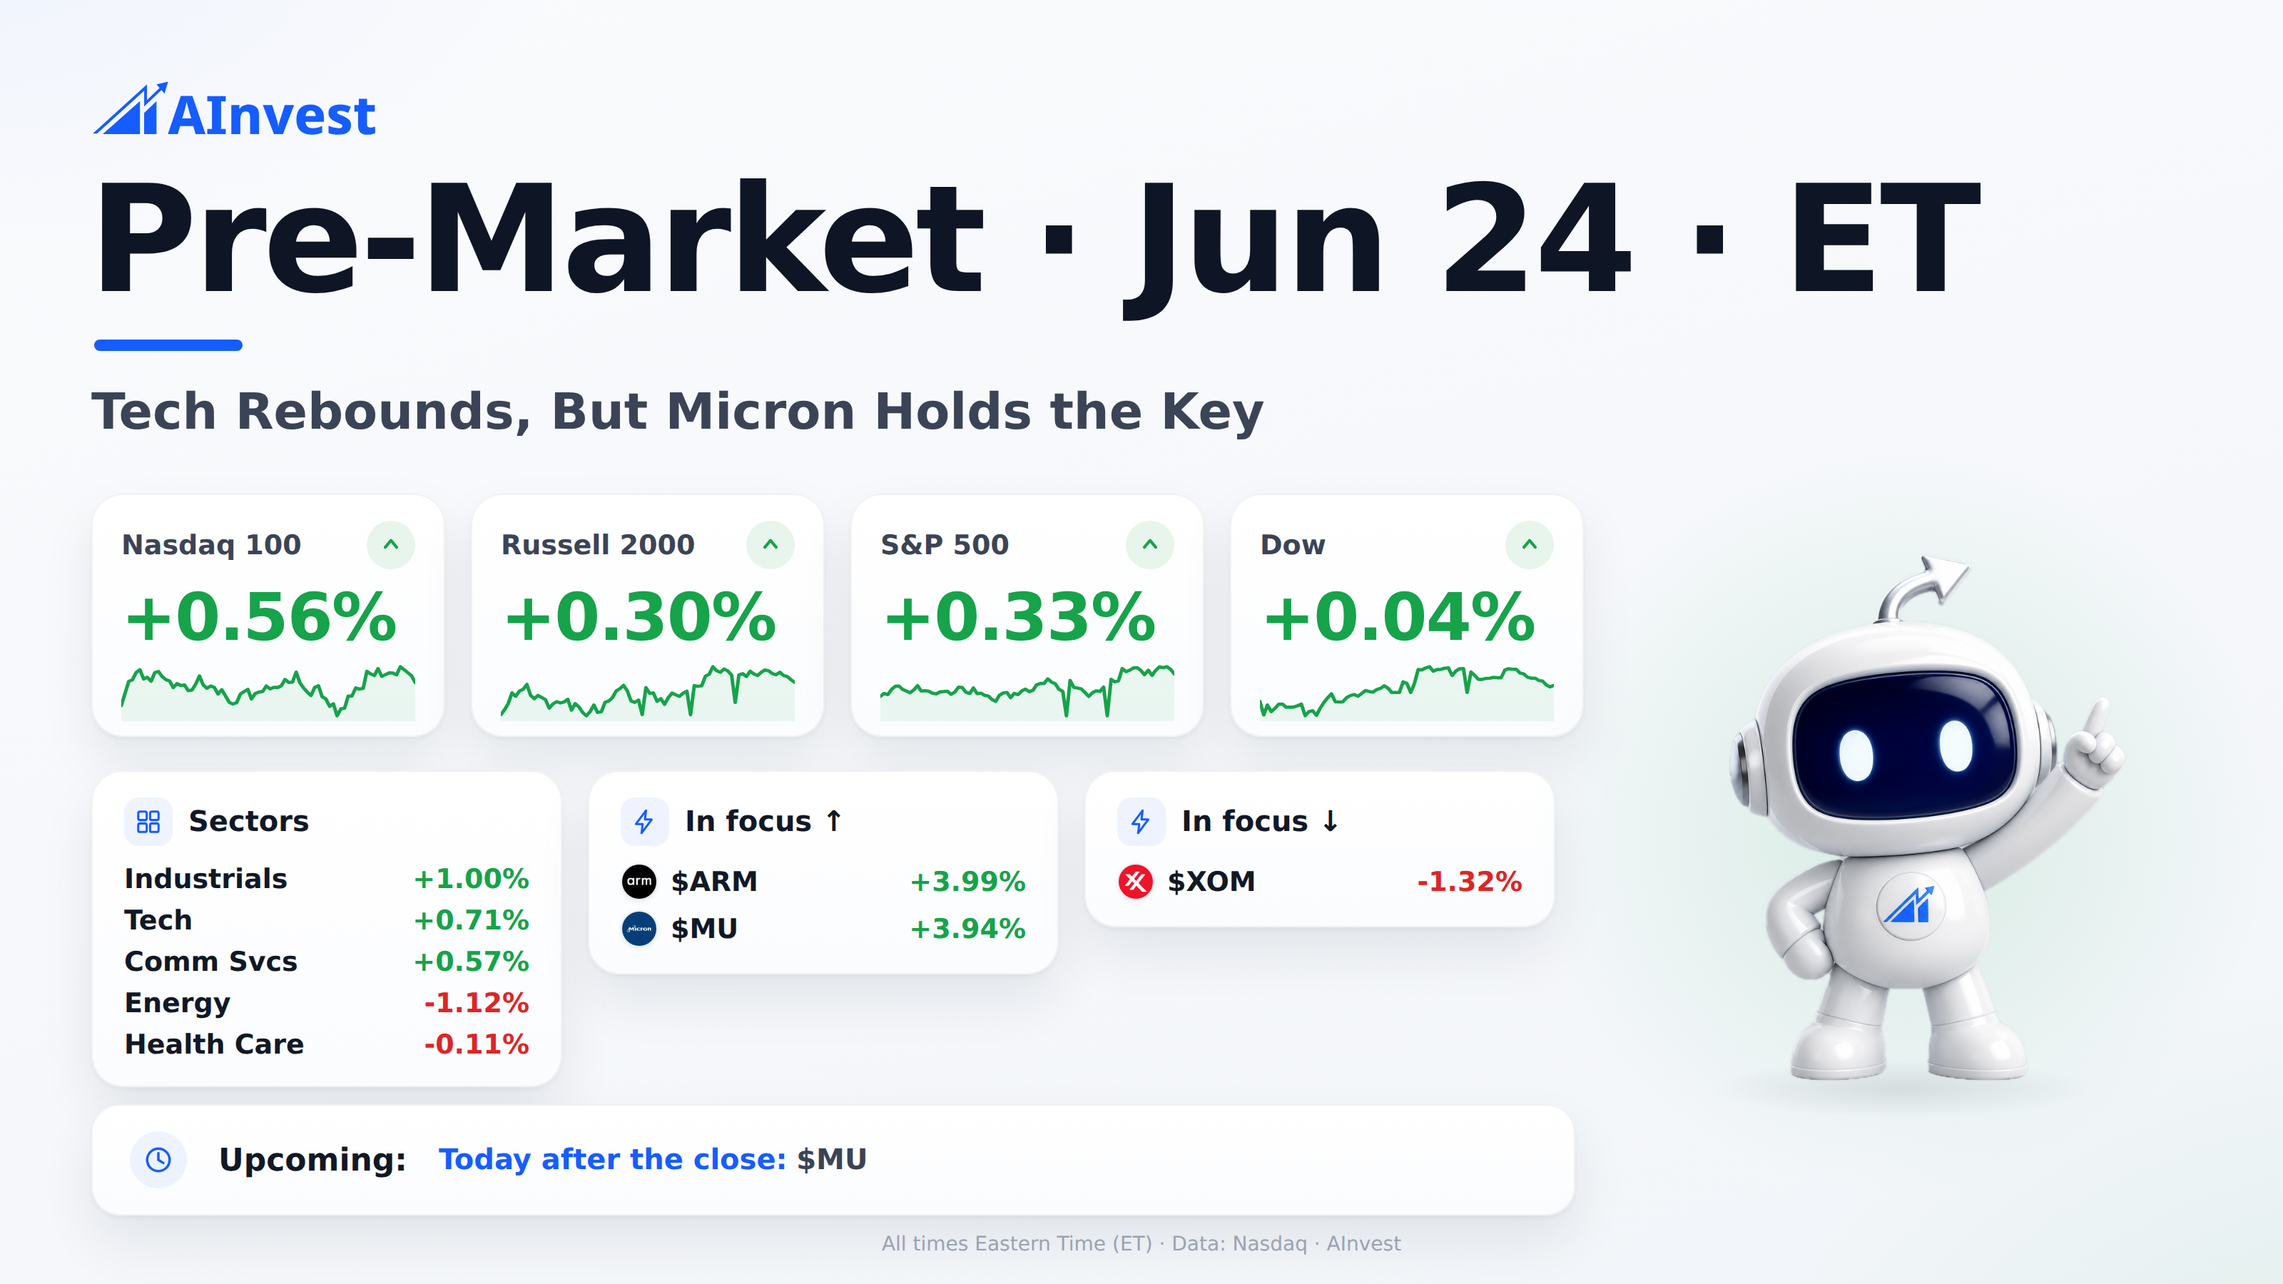
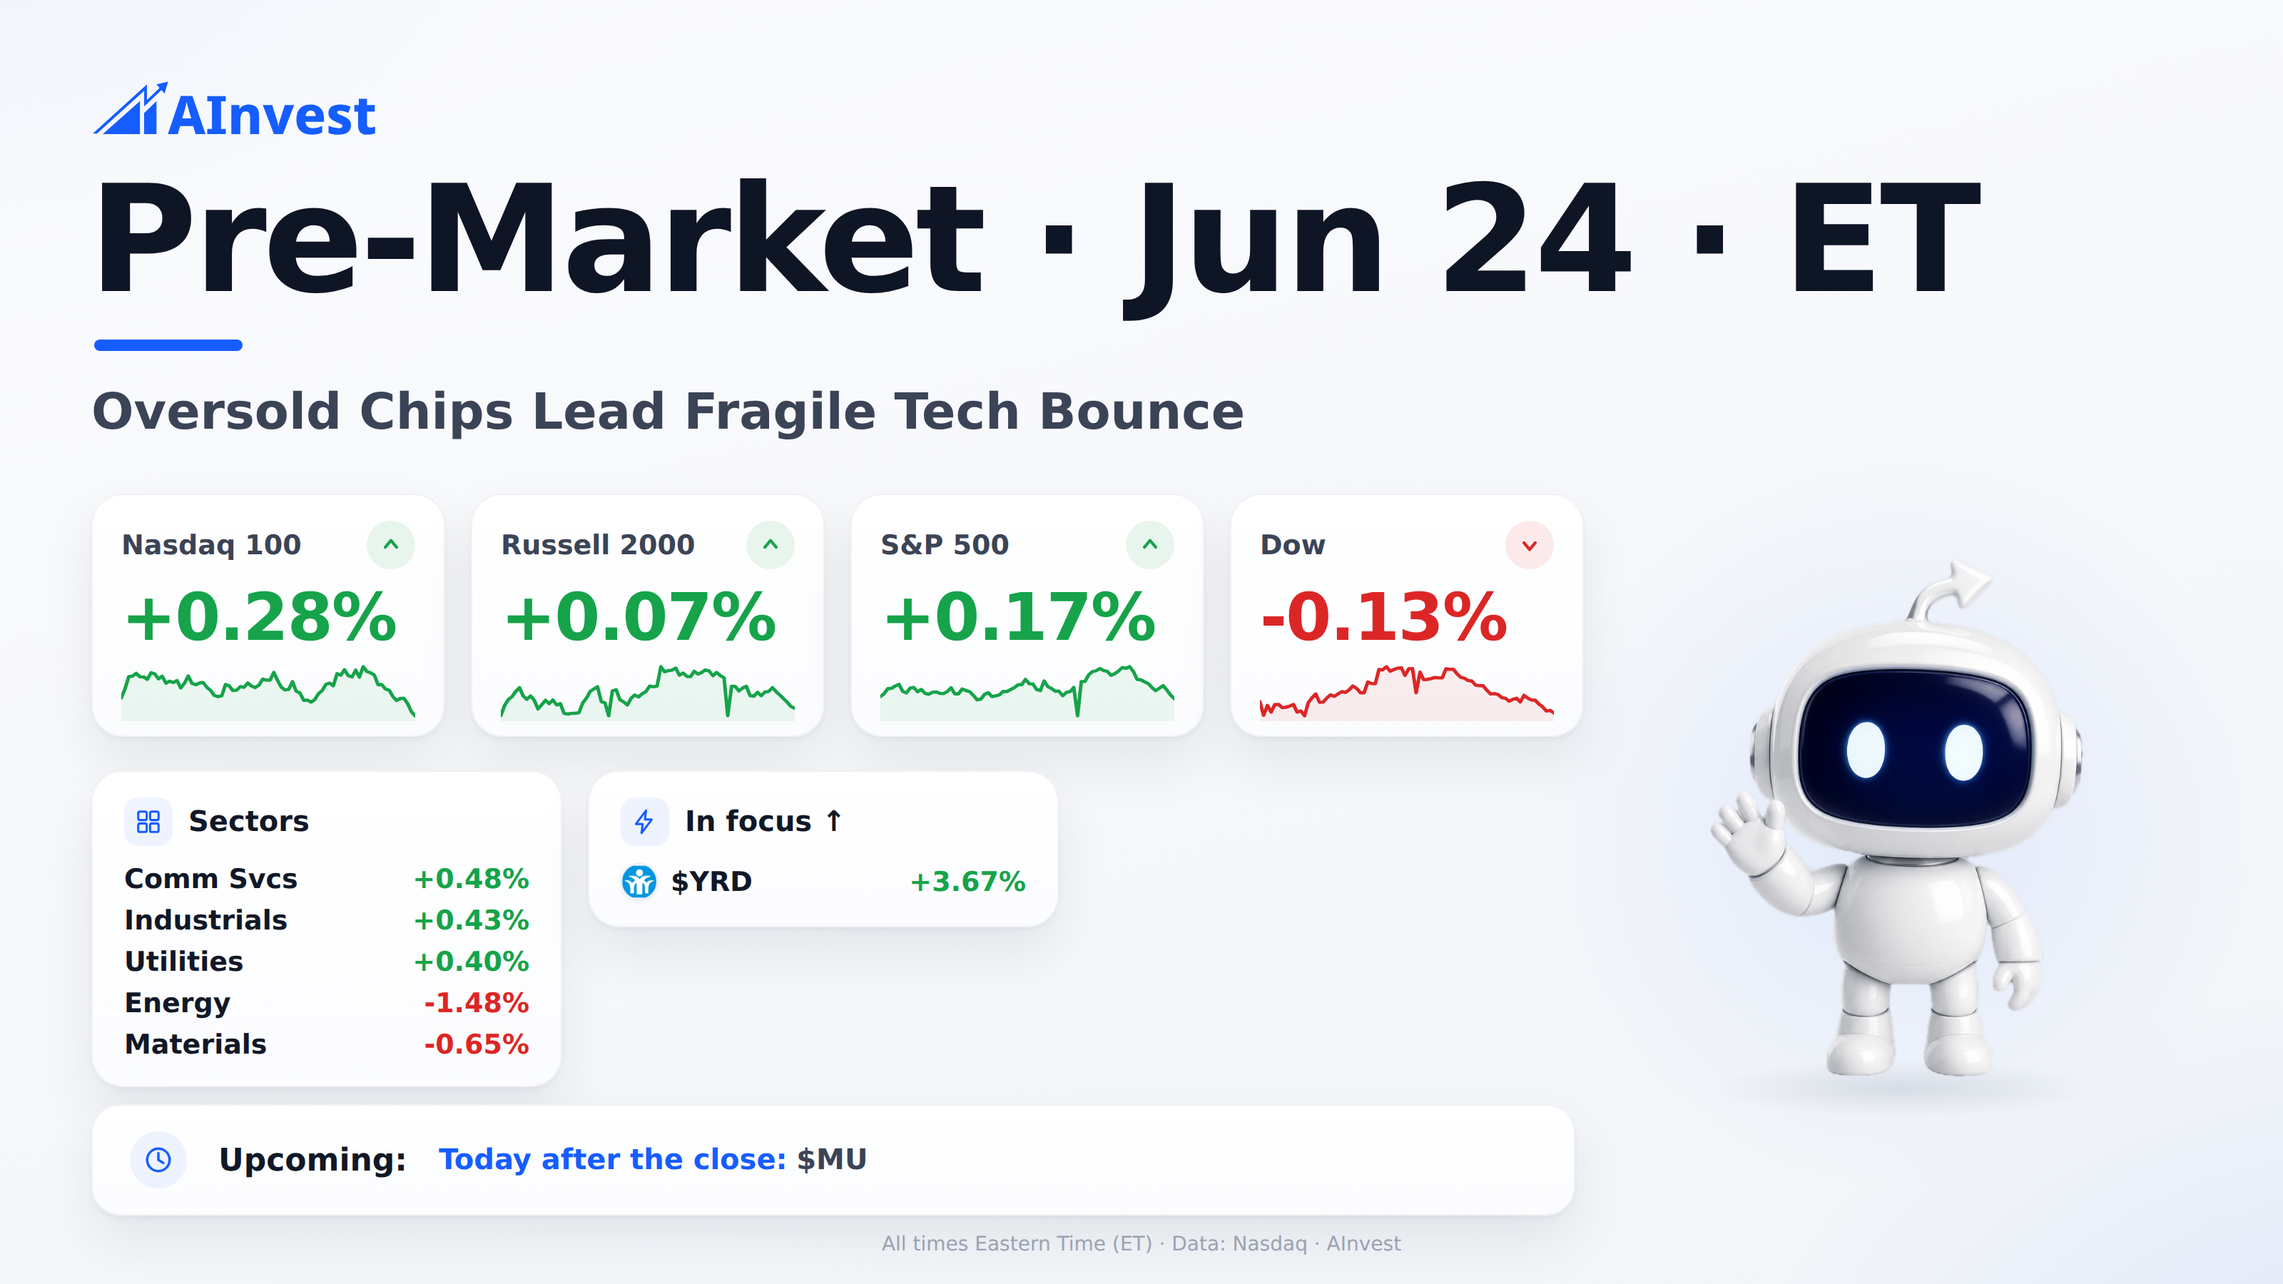
report: 盘前报告 + 卡片 2026-06-24(线上 Claude Opus 4.8)

diff --git a/data/reports/premarket_20260624.md b/data/reports/premarket_20260624.md
@@ -1,58 +1,63 @@
 # 盘前看点 · 06-24(开盘前 1h)
 
-_盘前实时数据 · 2026-06-24 08:37 ET · 我不是股神 · 非投资建议_
+_盘前实时数据 · 2026-06-24 09:18 ET · 我不是股神 · 非投资建议_
 
 ## 1. 一句话定调
 
-**今天盘前是“科技杀跌后的技术性反抽”，不是风险全面解除。** 标普500 盘前 **+0.36%**，纳指100 **+0.59%**，罗素2000 **+0.35%**，道指只 **+0.09%**。这说明资金先回补成长和科技，尤其是半导体；但上一交易日纳指100已经跌了 **-3.29%**，标普500跌 **-1.45%**，盘前这点反弹更像止血，不是新一轮无脑逼空。今天开盘大概率先往上试，但真正要看的是：反抽能不能从芯片扩散到更宽的风险资产。
+盘前不是全面反攻，是**科技超跌后的技术性喘气**：**纳指100 +0.27%**、**标普500 +0.16%**，但道指 **-0.15%**，罗素 **+0.12%**。上一交易日真正受伤的是科技——纳指100跌 **-3.29%**，标普跌 **-1.45%**；今天盘前芯片先弹，说明资金不是在买“经济复苏”，而是在试探上一交易日被砸最狠的 AI / 半导体有没有短线承接。领头的不是防御，也不是能源，是**MU、ARM、AVGO、NXPI**这条芯片链。
 
 ## 2. 盘前在发生什么
 
-第一条主线：**半导体在做“暴跌后的选择题”——是修复，还是逃命反弹。**  
-上一交易日这批AI链核心票大多被砸得很狠：**NVDA -4.13%**、**AVGO -3.06%**、**AMD -5.76%**、**ARM -10.14%**、**SMCI -6.03%**，这不是普通回调，是机构在降低拥挤度。盘前它们集体反弹：**ARM +3.86% 至 $380.54**、**AMD +1.04% 至 $525.25**、**SMCI +1.47% 至 $33.8085**、**NVDA +0.57% 至 $201.18**、**AVGO +0.39% 至 $381.65**。  
-这类走势的本质是：上一交易日杀估值，盘前先修复情绪。强的是 **ARM**，因为上一交易日跌最深，盘前反弹也最猛；弱的是 **NVDA/AVGO**，盘前只是小幅回血，说明大钱还没急着重新加仓龙头。机构今天会盯一个很简单的信号：**NVDA 能不能稳住 $200.04 上一交易日收盘附近**。站不住，AI反弹就是短线资金自救；站稳并放量，才有机会把纳指从“反抽”变成“修复”。
+第一条主线：**芯片不是崩盘后的修复，还是拥挤交易的再定价**。上一交易日，半导体被集体砸：**MU -13.18%**、**ARM -10.14%**、**CRDO -10.09%**、**NXPI -7.21%**、**MKSI -7.46%**，这是典型的高拥挤赛道先杀估值、再杀杠杆。盘前这些票反弹：**NXPI +7.82% 至 $322.30**、**MU +3.08% 至 $1,084.20**、**ARM +2.71% 至 $376.33**、**CRDO +2.67%**。结论很直接：这是**上一交易日大跌后的超卖反抽**，不是趋势已经恢复。
 
-第二条主线：**MU 是今天的情绪锚，财报前资金已经在抢方向。**  
-**MU 上一交易日 +3.97%，盘前再 +3.92%，报价 $1,092.98，上一交易日收盘 $1,093.50**。这不是超卖反抽，而是动能延续。新闻里也直接把焦点放在 Micron：市场一边说“memory trade boom”，一边又提醒“red-hot run hits a wall”。这就是典型财报日前的两边下注：多头押AI服务器、存储周期、定价弹性；空头押预期太满、兑现即卖。  
-今天 MU 的意义不只是它自己，而是它能不能证明AI支出还在继续传导到硬件供应链。若 **MU 财报前还能守住 $1,093.50 附近**，说明资金愿意顶着估值风险下注；如果开盘冲高后跌回上一交易日收盘下方，半导体盘前反弹容易变成“财报前最后一波流动性”。
+机构今天会盯两个东西：一是这些票能不能守住上一交易日收盘价上方，二是开盘后反弹能不能放量。尤其 **MU $1,051.77** 是上一交易日收盘基准，盘前站上只是第一步，真正关键是财报前资金敢不敢继续推。新闻里也很清楚，市场把 Micron 放在焦点上，一边说“red-hot run hits a wall”，一边又说“memory trade boom”。这就是现在的分歧：多头赌存储周期和 AI 需求，空头赌涨太多、预期太满。反共识点是：**财报前涨，不一定是看好，可能是做市商和事件资金在调仓避险**。
 
-第三条主线：**高beta不是都在反弹，PLTR 和 SPCX 在提醒你：资金开始挑了。**  
-上一交易日 **PLTR -2.34%**，盘前继续 **-2.06% 至 $114.2995**，这是弱势延续，不是被误杀。上一交易日 **SPCX +0.98%**，盘前却 **-1.50% 至 $153.77**，这是涨后掉头，说明私营航天/热门概念的追价资金在降温。新闻提到 SpaceX stock dips below $150 debut before rebounding、Cathie Wood pounces，说明市场不是没关注，而是分歧很大：有人把下跌当机会，有人把流动性折价当风险。  
-今天反共识点在这里：如果指数反弹但 **PLTR/SPCX** 继续弱，说明资金不是全面risk-on，而是在从故事股撤向财报可验证的链条。
+第二条主线：**AI 龙头开始分化，买盘不再无脑买整个篮子**。上一交易日 **NVDA -4.13%**、**AVGO -3.06%**、**AMD -5.76%**、**SMCI -6.03%**、**COHR -10.40%**，盘前却不是一起弹：**AVGO +1.97%**、**AMD +0.38%**、**SMCI +0.71%**、**COHR +1.36%**，但 **NVDA -0.19% 至 $199.6608**。这说明资金在做选择：不是撤出 AI，而是从“买故事”切到“买确定性、买财报兑现、买估值还能讲得通”。
 
-第四条主线：**能源盘前转弱，地缘风险并没有直接变成油股溢价。**  
-**XOM 上一交易日 +0.91%，盘前 -1.32% 至 $137.89**，这是涨后获利了结。新闻里有“US Futures Slip, Oil Climbs on Renewed Iran Threat”，也有伊朗核查、海湾谈判、霍尔木兹对话、卡塔尔LNG恢复等消息。市场现在不是单边买油，而是在交易“风险溢价会不会被外交进展压回去”。所以能源股今天若不能跟油价同步，说明资金更相信地缘冲击可控。
+**NVDA $200.04** 是上一交易日收盘，盘前在其下方，说明龙头没有跟上芯片反弹。对纳指来说，这比一堆二线芯片上涨更重要。若开盘后 NVDA 继续压在 $200 附近下方，纳指的反弹就容易变成指数假阳线、个股真分化。站在对面的资金是谁？不是看空 AI 的人，而是前期赚太多的机构在减 beta：他们可以继续相信 AI，但不必继续用最高权重、最高估值去承担波动。
+
+第三条主线：**SpaceX/高估值私募映射股开始被当成风险资产卖**。上一交易日 **SPCX +0.98%**，盘前 **-2.76% 至 $151.80**，这是明确的**上一交易日小涨后盘前反转**。新闻提到 SpaceX stock dips below $150 debut before rebounding、Cathie Wood Pounces，说明市场正在围绕这类“稀缺叙事资产”重新定价。这里最关键的不是 Cathie Wood 买不买，而是**$150 附近是否成为心理锚**。如果盘中再破，说明愿意接盘的不是长期资金，而是主题资金在打短线。
+
+第四条主线：**能源从避险溢价回吐，地缘交易降温但没结束**。上一交易日 **XOM +0.91%**，盘前 **-1.77% 至 $137.25**，这是典型的**上一交易日上涨后获利了结**。隔夜新闻里，油价回落、美国与伊朗相关谈判、霍尔木兹方向沟通、IAEA 检查继续推进、卡塔尔 LNG 生产恢复预期，都在压地缘溢价。但反共识点是：油跌并不等于风险消失。欧盟机构仍警告航空公司避免伊朗空域，说明尾部风险还在，只是市场先把最恐慌的那层价格拿掉了。
 
 ## 3. 热门追踪
 
-- **SPCX $153.77 / 上一交易日收盘 $156.11**：上一交易日 **+0.98%** 后盘前 **-1.50%**，涨后反转，关键看能否重新拿回 **$156.11**，否则就是热门资产降温。  
-- **MU $1,092.98 / $1,093.50**：上一交易日 **+3.97%**、盘前 **+3.92%**，财报前动能延续；但离上一交易日收盘附近太近，开盘方向比盘前数字更重要。  
-- **NVDA $201.18 / $200.04**：上一交易日 **-4.13%** 后盘前 **+0.57%**，超卖修复；**$200.04** 是今天AI情绪线。  
-- **AVGO $381.65 / $380.15**：上一交易日 **-3.06%** 后盘前 **+0.39%**，反弹偏慢，市场还在消化AI资本开支账单。  
-- **AMD $525.25 / $519.85**：上一交易日 **-5.76%** 后盘前 **+1.04%**，属于跌深反抽，强度好于NVDA/AVGO。  
-- **ARM $380.54 / $366.39**：上一交易日 **-10.14%** 后盘前 **+3.86%**，典型急跌后的强修复，波动会很大。  
-- **SMCI $33.8085 / $33.32**：上一交易日 **-6.03%** 后盘前 **+1.47%**，服务器链有修复，但还没摆脱高beta属性。  
-- **PLTR $114.2995 / $116.70**：上一交易日 **-2.34%** 后盘前 **-2.06%**，弱势延续，是今天风险偏好是否真实回暖的反面指标。  
-- **TSLA $383.42 / $381.61**：上一交易日 **-5.79%** 后盘前 **+0.47%**，只是止跌，不是强修复。  
-- **COHR $388.25 / $390.13**：上一交易日 **+2.34%** 后盘前 **+1.84%**，动能延续，但盘前价仍低于上一交易日收盘附近，需看开盘承接。
+**SPCX $151.80 / $150 附近**：上一交易日 +0.98%，盘前 -2.76%，属于小涨后反转；$150 是市场心理位，破了容易触发主题资金再平衡。
+
+**MU $1,084.20 / $1,051.77**：上一交易日 -13.18%，盘前 +3.08%，财报前超卖反抽；关键不是涨几个点，而是能否守住上一交易日收盘上方并消化财报波动。
+
+**NVDA $199.6608 / $200.04**：上一交易日 -4.13%，盘前 -0.19%，没有跟随芯片反弹；若开盘仍压在 $200 附近下方，纳指修复质量要打折。
+
+**AVGO $387.62 / $380.15**：上一交易日 -3.06%，盘前 +1.97%，属于跌后反弹且强于 NVDA；新闻里市场围绕 AI guidance 分歧，今天看能否把 $380.15 变成支撑。
+
+**AMD $521.83 / $519.85**：上一交易日 -5.76%，盘前 +0.38%，反弹很轻，说明资金还没急着回补；更多是止跌观察，不是主动领涨。
+
+**ARM $376.33 / $366.39**：上一交易日 -10.14%，盘前 +2.71%，典型超卖反抽；若开盘后回落到 $366.39 附近，说明盘前买盘只是隔夜空头回补。
+
+**SMCI $33.558 / $33.32**：上一交易日 -6.03%，盘前 +0.71%，弱修复；服务器链的风险在于弹性大，但资金撤退时流动性也薄。
+
+**PLTR $114.00 / $116.70**：上一交易日 -2.34%，盘前 -2.31%，是连续下压，不是反弹；高估值软件今天要防被当成 AI beta 卖。
+
+**TSLA $380.17 / $381.61**：上一交易日 -5.79%，盘前 -0.38%，跌势降速但没反转；只要回不到 $381.61 上方，资金还是偏观望。
+
+**COHR $386.4217 / $381.22**：上一交易日 -10.40%，盘前 +1.36%，光通信链超卖修复；但上一交易日跌幅太深，今天看的是承接，不是追涨热度。
 
 ## 4. 隔夜消息面
 
-1. **科技股反弹但背景是“上一交易日科技抛售加深”**。Yahoo、CNBC、Morningstar 都把今天焦点放在科技杀跌后的反弹和 Micron 财报上，这意味着市场不是在交易宏观突然变好，而是在交易仓位修复。
+一是**科技股反弹但情绪仍脆**。多家媒体都把焦点放在标普、纳指从科技抛售中反弹，以及 Micron 财报前表现。上一交易日纳指跌幅太大，今天任何高开都容易被短线资金拿来减仓，开盘后前 30 分钟比盘前价格更重要。
 
-2. **利率和增长担忧仍在台面上。** 多条消息提到 futures 因 rate worries、global growth worries、PCE inflation data 承压。今天如果开盘科技冲高，但美债/通胀预期不给配合，反弹容易被卖。
+二是**油价回落，地缘溢价被削，但尾部风险未清零**。Reuters 提到卡塔尔总理赴阿曼，为伊朗、海湾、伊拉克围绕霍尔木兹的谈判铺路；IAEA 表示伊朗检查会继续；同时欧盟航空安全机构仍提示避免伊朗空域。这组合的含义是：市场可以降风险溢价，但不能把地缘风险当作已经结束。
 
-3. **中东风险没有消失，但开始进入“谈判定价”。** Rubio 中东行、IAEA 伊朗核查、伊朗-海湾-伊拉克霍尔木兹谈判、航空公司仍被建议避开伊朗空域，这些消息组合在一起：风险还在，但市场也在找降温路径。
+三是**宏观叙事在给多头续命**。美国财长 Bessent 表示 GDP 增长有机会在年底前回到 3%，并提到其“3-3-3”框架。对股市来说，这种话术会支撑软着陆交易，但问题也在这里：如果增长预期上修伴随利率担忧，长久期科技股未必舒服。
 
-4. **油气供应预期有对冲。** 卡塔尔称LNG生产将在几周内恢复正常，这会削弱部分能源风险溢价。看油价没用，要看能源股能不能跟，今天 **XOM** 盘前转弱就是信号。
+四是**市场结构越来越像波动率生意**。Cboe 推出 prediction markets 产品，继续围绕零日权期权需求扩张。别小看这个新闻，短线市场的真实主角经常不是基本面，而是期权仓位、做市商 gamma 和事件波动率。今天这种科技财报前反弹，尤其容易被期权结构牵着走。
 
 ## 5. 今日财报
 
-今天重头戏是盘后：**MU Micron Technology**、**NKE Nike**、**JEF Jefferies Financial Group**、**FUL H. B. Fuller**、**MEI Methode Electronics**、**MLKN MillerKnoll**、**WS Worthington Steel**。其中 **MU** 是全市场真正的情绪锚，市场在赌的是AI链需求到底是继续扩散，还是预期已经透支。
+今天盘前已/将关注：**MKC McCormick**、**PAYX Paychex**、**DAKT Daktronics**、**MNY MoneyHero**、**PODC PodcastOne**、**NG Novagold**、**CRWS Crown Crafts**、**WBA** 等。盘后更重：**MU Micron Technology** 是全市场焦点，其次还有 **NKE Nike**、**JEF Jefferies**、**FUL H. B. Fuller**、**MEI Methode Electronics**、**MLKN MillerKnoll**、**WS Worthington Steel**。市场今天赌的不是 EPS 小数点，而是：**AI 需求到底能不能继续撑住高估值链条**，以及消费端的 NKE 能不能给出需求没有断崖的信号。
 
-今天盘前还有 **MKC McCormick**、**PAYX Paychex**、**DAKT Daktronics**、**MNY MoneyHero**、**NG Novagold Resources**、**PODC PodcastOne**、**WBA** 等。  
-明天盘前重点看 **DRI Darden Restaurants**、**CMC Commercial Metals**、**AYI Acuity**、**SNX TD SYNNEX**、**WGO Winnebago**、**NNOX NANO-X IMAGING**、**VTIX Virtuix Holdings**；明天盘后有 **AOUT American Outdoor Brands**、**OMSE OMS Energy Technologies**、**WSE Wise Group**。消费、工业、IT分销会给市场一个更现实的答案：经济到底是软着陆，还是利润开始被压。
+明天盘前看 **DRI Darden Restaurants**、**SNX TD SYNNEX**、**AYI Acuity**、**CMC Commercial Metals**、**WGO Winnebago**、**NNOX NANO-X IMAGING**、**VTIX Virtuix**、**YRD**；盘后有 **AOUT American Outdoor Brands**、**OMSE OMS Energy Technologies**、**WSE Wise Group**。这批更偏经济温度计：餐饮、分销、金属、房车，能告诉市场增长到底是“财长口中的 3%”，还是股价里已经透支的乐观。
 
 ## 6. 一句风险提示
 
-**今天最大风险不是开盘不涨，而是科技高开后只有半导体财报线能撑住、其他高beta继续掉队；那就不是risk-on，而是一次很拥挤的反抽。**
+今天最该当心的是：**科技股盘前反弹被误读成趋势恢复**——上一交易日跌得太狠，盘前弹一点很正常；如果 **NVDA 守不回 $200.04**、**MU 财报前冲高回落**、**SPCX 跌破 $150** 同时出现，那不是轮动，是风险偏好再次降档。
